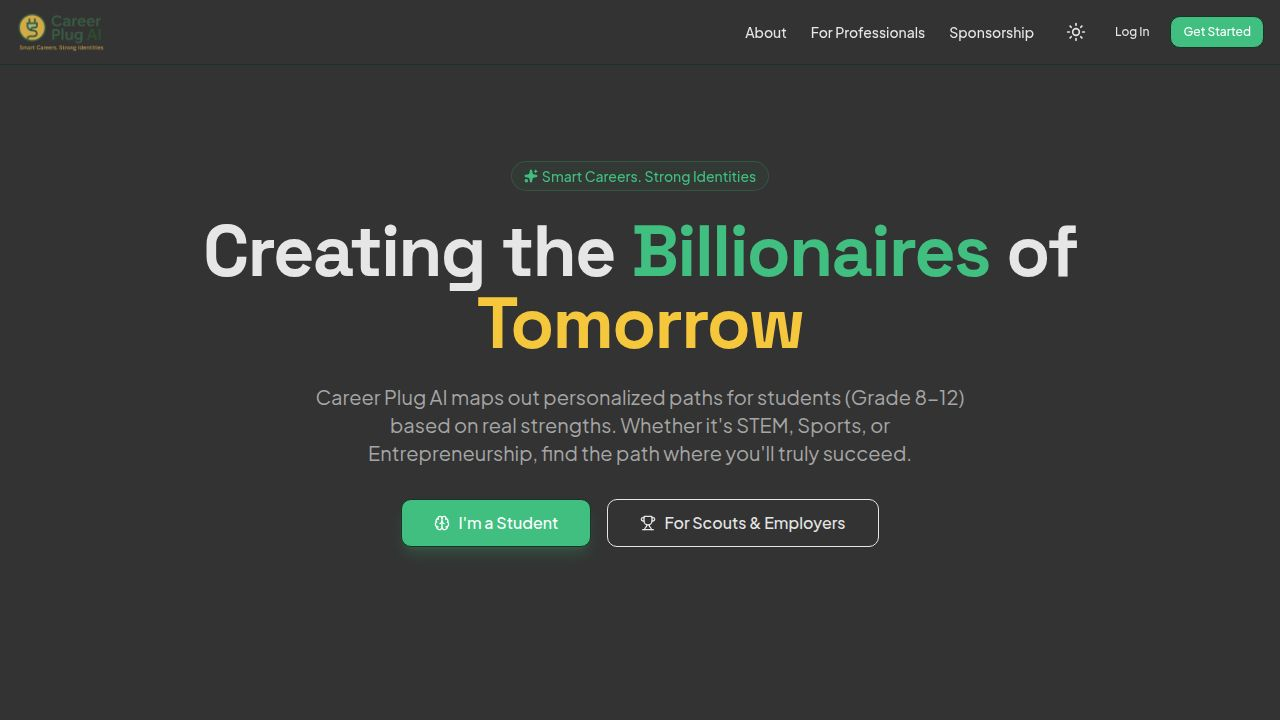
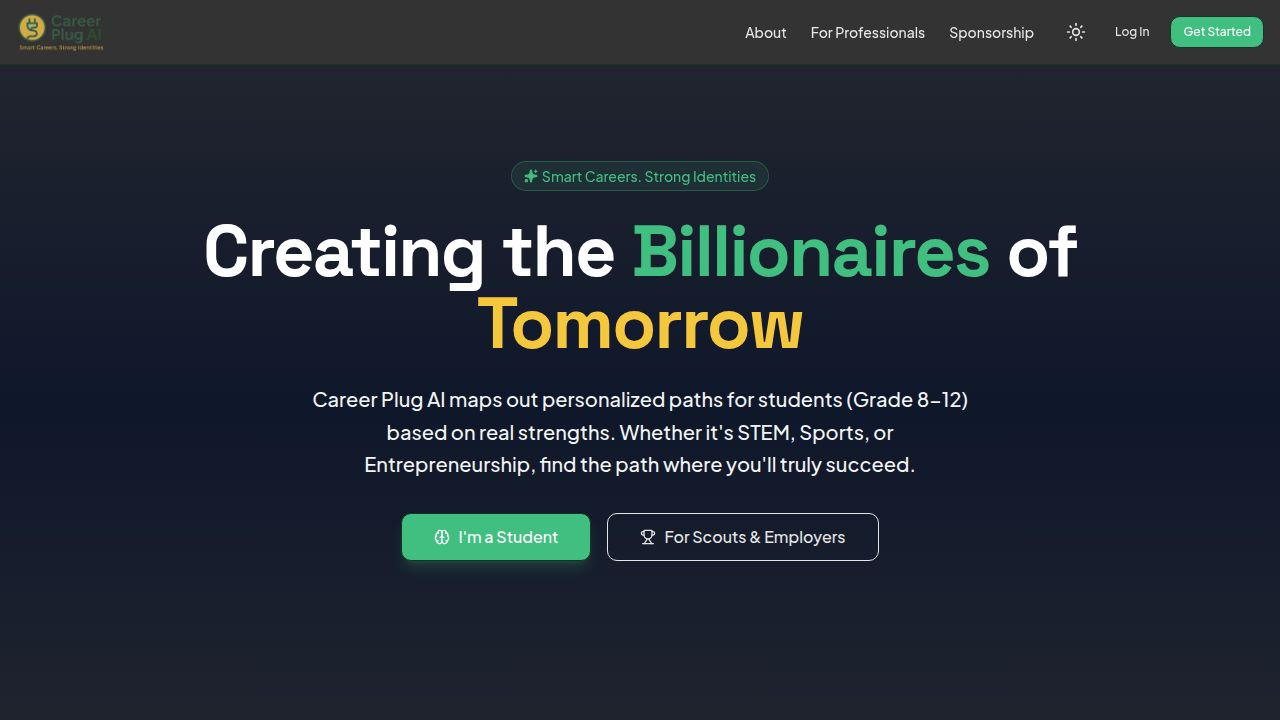
Make hero section dark mode identical across all themes
Update Hero component to apply dark mode background and text colors to ensure consistency and video clarity across light and dark themes.

Replit-Commit-Author: Agent
Replit-Commit-Session-Id: 7c7cd212-d8cd-4d20-be3c-ae5d1c8c3b5b
Replit-Commit-Checkpoint-Type: full_checkpoint
Replit-Commit-Event-Id: 8d99b08a-2c72-4ee0-b918-3961fcb3bc17
Replit-Commit-Screenshot-Url: https://storage.googleapis.com/screenshot-production-us-central1/c713ed05-138b-47cc-aa47-b462ed80db97/7c7cd212-d8cd-4d20-be3c-ae5d1c8c3b5b/SZma87a
Replit-Helium-Checkpoint-Created: true

diff --git a/client/src/components/home/Hero.tsx b/client/src/components/home/Hero.tsx
@@ -5,7 +5,7 @@ import { Link } from "wouter";
 
 export function Hero() {
   return (
-    <section className="relative overflow-hidden bg-background pt-16 pb-32 md:pt-24 md:pb-48">
+    <section className="relative overflow-hidden bg-slate-900 dark:bg-slate-900 pt-16 pb-32 md:pt-24 md:pb-48">
       {/* Video Background with fallback and overlay */}
       <div className="absolute inset-0 z-0 opacity-30 dark:opacity-50">
         <video
@@ -28,18 +28,18 @@ export function Hero() {
 
       <div className="container relative z-10 px-4">
         <div className="mx-auto max-w-4xl text-center">
-          <div className="mb-6 inline-flex items-center rounded-full border border-primary/20 bg-primary/5 px-3 py-1 text-sm text-primary backdrop-blur-sm">
+          <div className="mb-6 inline-flex items-center rounded-full border border-primary/30 bg-primary/10 px-3 py-1 text-sm text-primary backdrop-blur-sm">
             <span className="flex items-center gap-1 font-medium">
               <Sparkles className="h-3.5 w-3.5 fill-current" />
               Smart Careers. Strong Identities
             </span>
           </div>
           
-          <h1 className="mb-6 font-heading text-4xl font-bold tracking-tight text-foreground sm:text-5xl md:text-6xl lg:text-7xl">
+          <h1 className="mb-6 font-heading text-4xl font-bold tracking-tight text-white sm:text-5xl md:text-6xl lg:text-7xl">
             Creating the <span className="text-primary">Billionaires</span> of <span className="text-accent">Tomorrow</span>
           </h1>
           
-          <p className="mb-8 text-lg sm:text-xl max-w-2xl mx-auto text-foreground font-medium leading-relaxed">
+          <p className="mb-8 text-lg sm:text-xl max-w-2xl mx-auto text-gray-100 font-medium leading-relaxed">
             Career Plug AI maps out personalized paths for students (Grade 8-12) based on real strengths. 
             Whether it's STEM, Sports, or Entrepreneurship, find the path where you'll truly succeed.
           </p>
